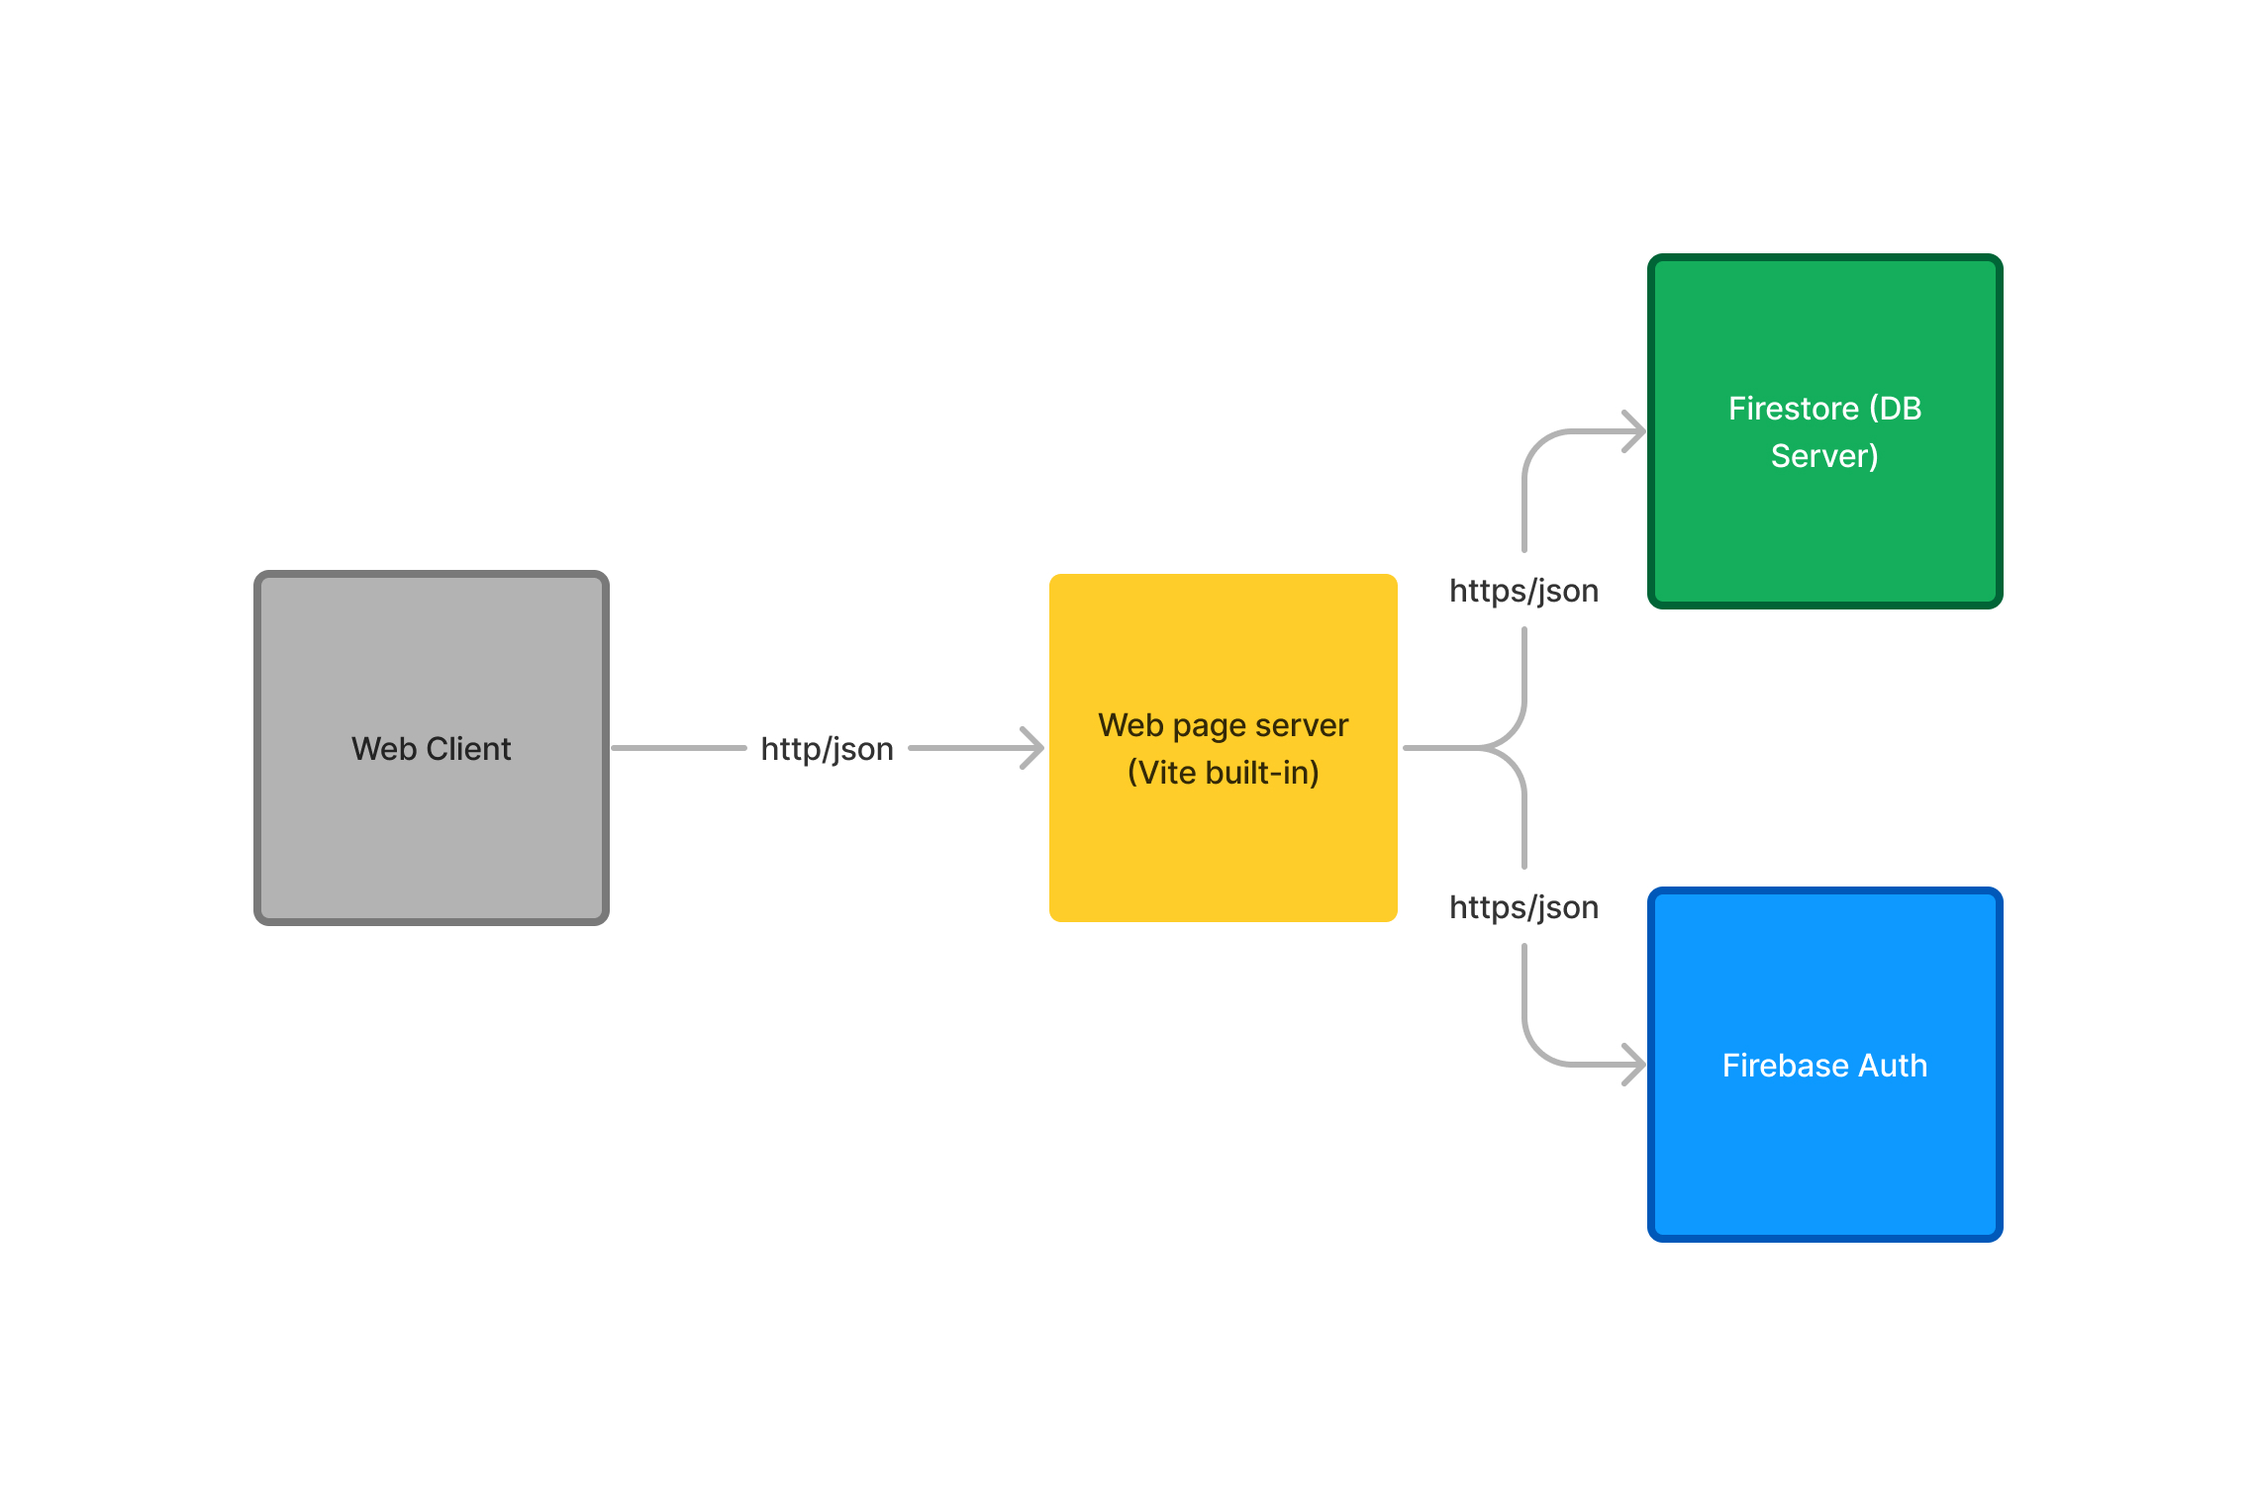
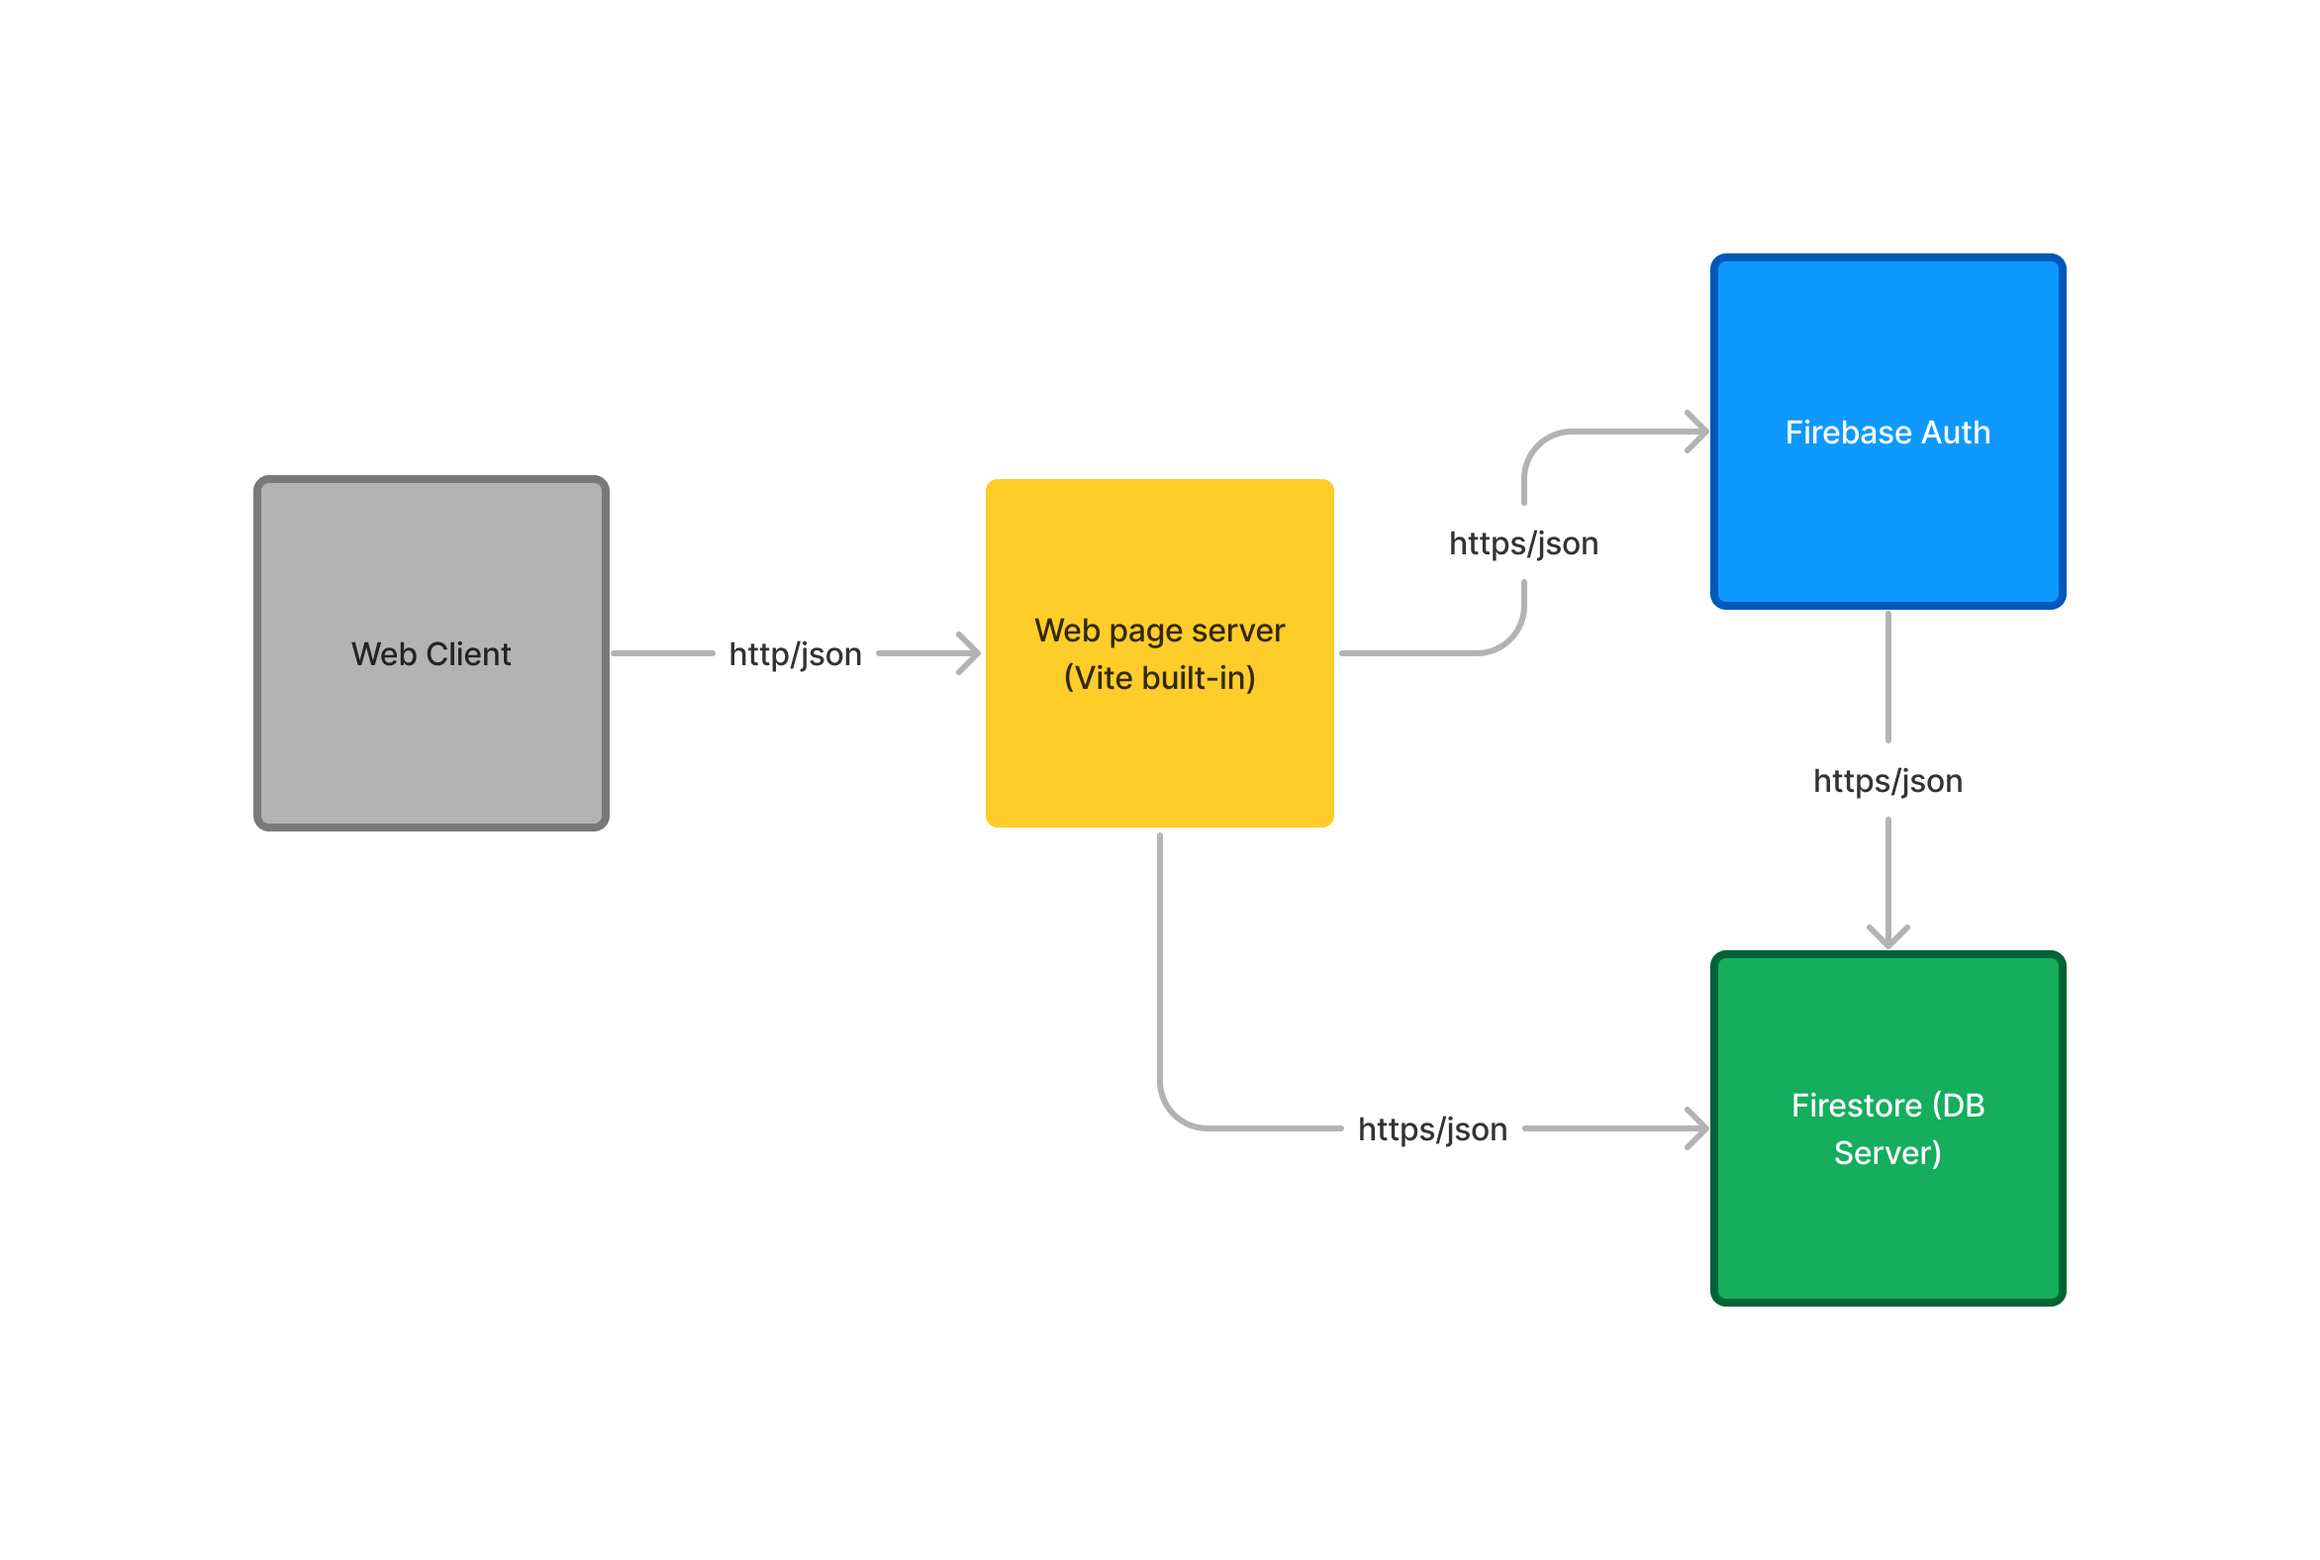
completed step 1

diff --git a/SystemArchitecture.md b/SystemArchitecture.md
@@ -1,7 +1,9 @@
 # High level component diagram
 
-## This is about the high level diagram...
+## High level component diagram
 ![img](./public/images/c-diagram.jpg)
+
+When the web client is initiated the Vite built in web server serves either the feed or a log in interface dependent on whether the user is logged in. If the user is logged in then their data--profile photo and posts as well as any other relevant information--is fetched from the Database. Otherwise, if the user is not logged they will be prompted to and once done they will be authenticated withe Firebase auth, and the relevant data about the user is fetched from the database.
 
 
 ## This is about the ER diagram...
